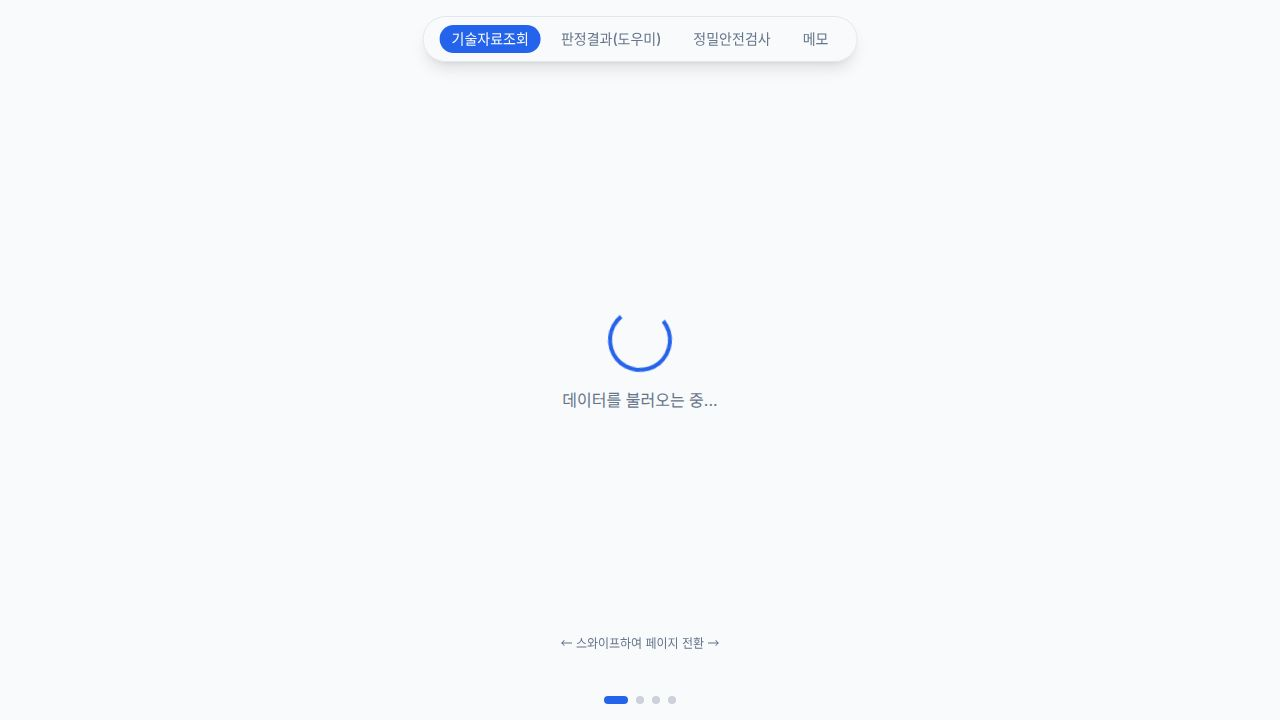
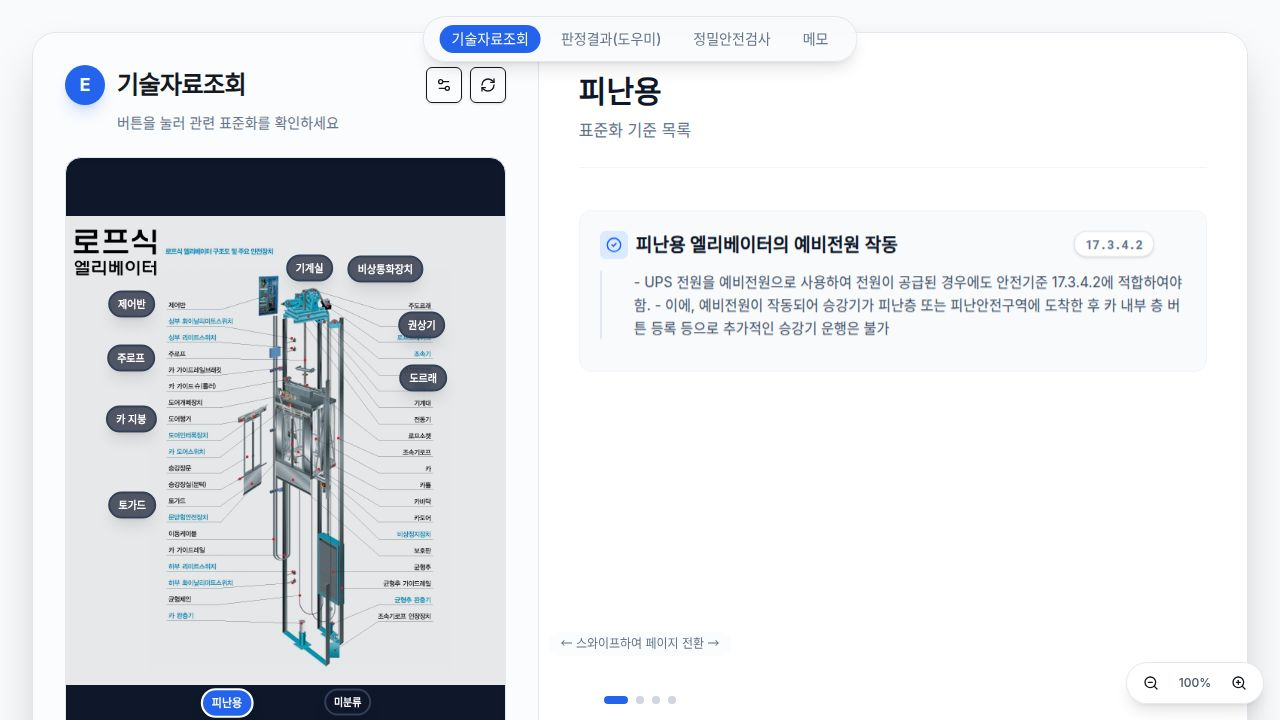
Improve image viewing performance by optimizing transitions
Modify ImageViewerComponent in judgment.tsx and memo.tsx to use willChange for transform properties, replacing potentially performance-hindering CSS transitions.

Replit-Commit-Author: Agent
Replit-Commit-Session-Id: 3319dbb9-3850-4929-a45c-e9787be34d76
Replit-Commit-Checkpoint-Type: full_checkpoint
Replit-Commit-Event-Id: 57b6a17a-24d2-434c-a191-f1aed1c5a954
Replit-Commit-Screenshot-Url: https://storage.googleapis.com/screenshot-production-us-central1/716f116c-b55f-4b8d-924a-f191a57abe1a/3319dbb9-3850-4929-a45c-e9787be34d76/tB9H96d

diff --git a/client/src/pages/judgment.tsx b/client/src/pages/judgment.tsx
@@ -185,7 +185,7 @@ function ImageViewerComponent({
             maxHeight: '100%', 
             objectFit: 'contain',
             transform: `scale(${imageViewer.zoom}) translate(${imageViewer.panX / imageViewer.zoom}px, ${imageViewer.panY / imageViewer.zoom}px)`,
-            transition: isPanning.current ? 'none' : 'transform 0.1s ease-out',
+            willChange: 'transform',
             pointerEvents: 'none',
             userSelect: 'none'
           }}

diff --git a/client/src/pages/memo.tsx b/client/src/pages/memo.tsx
@@ -178,7 +178,7 @@ function ImageViewerComponent({
             maxHeight: '100%', 
             objectFit: 'contain',
             transform: `scale(${imageViewer.zoom}) translate(${imageViewer.panX / imageViewer.zoom}px, ${imageViewer.panY / imageViewer.zoom}px)`,
-            transition: isPanning.current ? 'none' : 'transform 0.1s ease-out',
+            willChange: 'transform',
             pointerEvents: 'none',
             userSelect: 'none'
           }}
